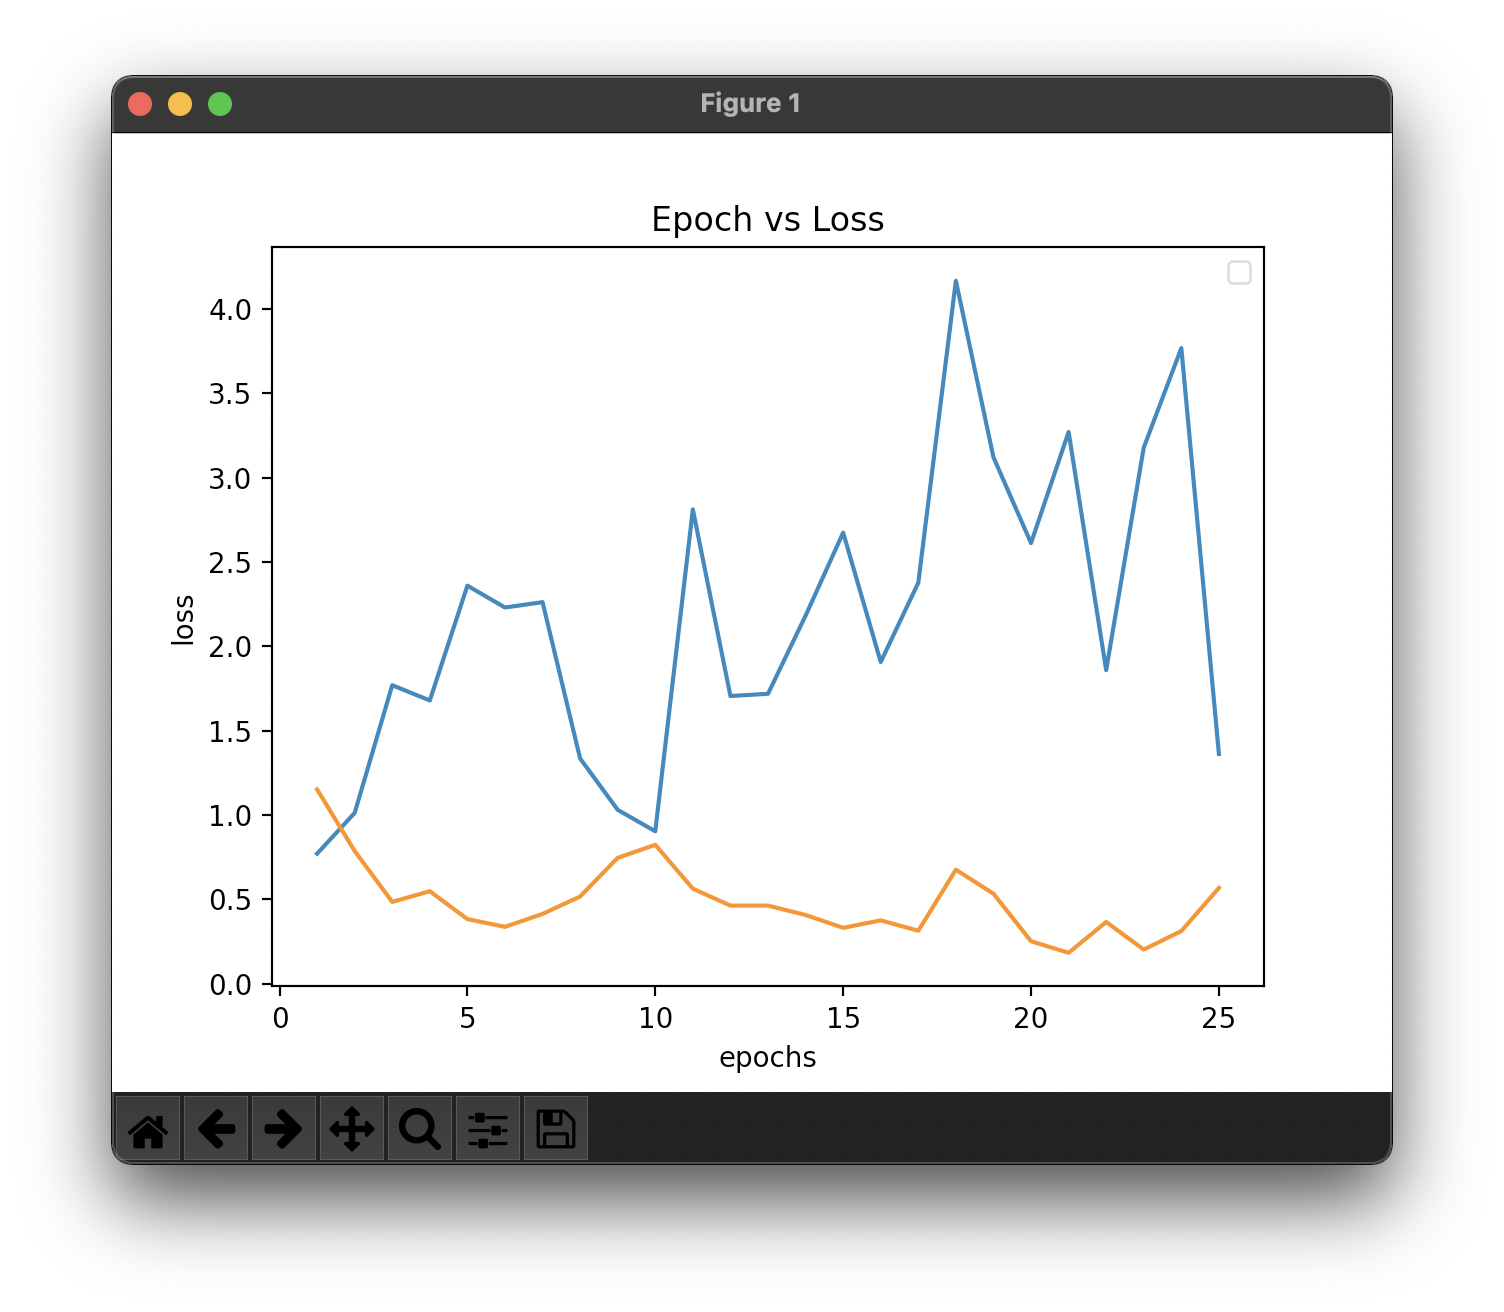
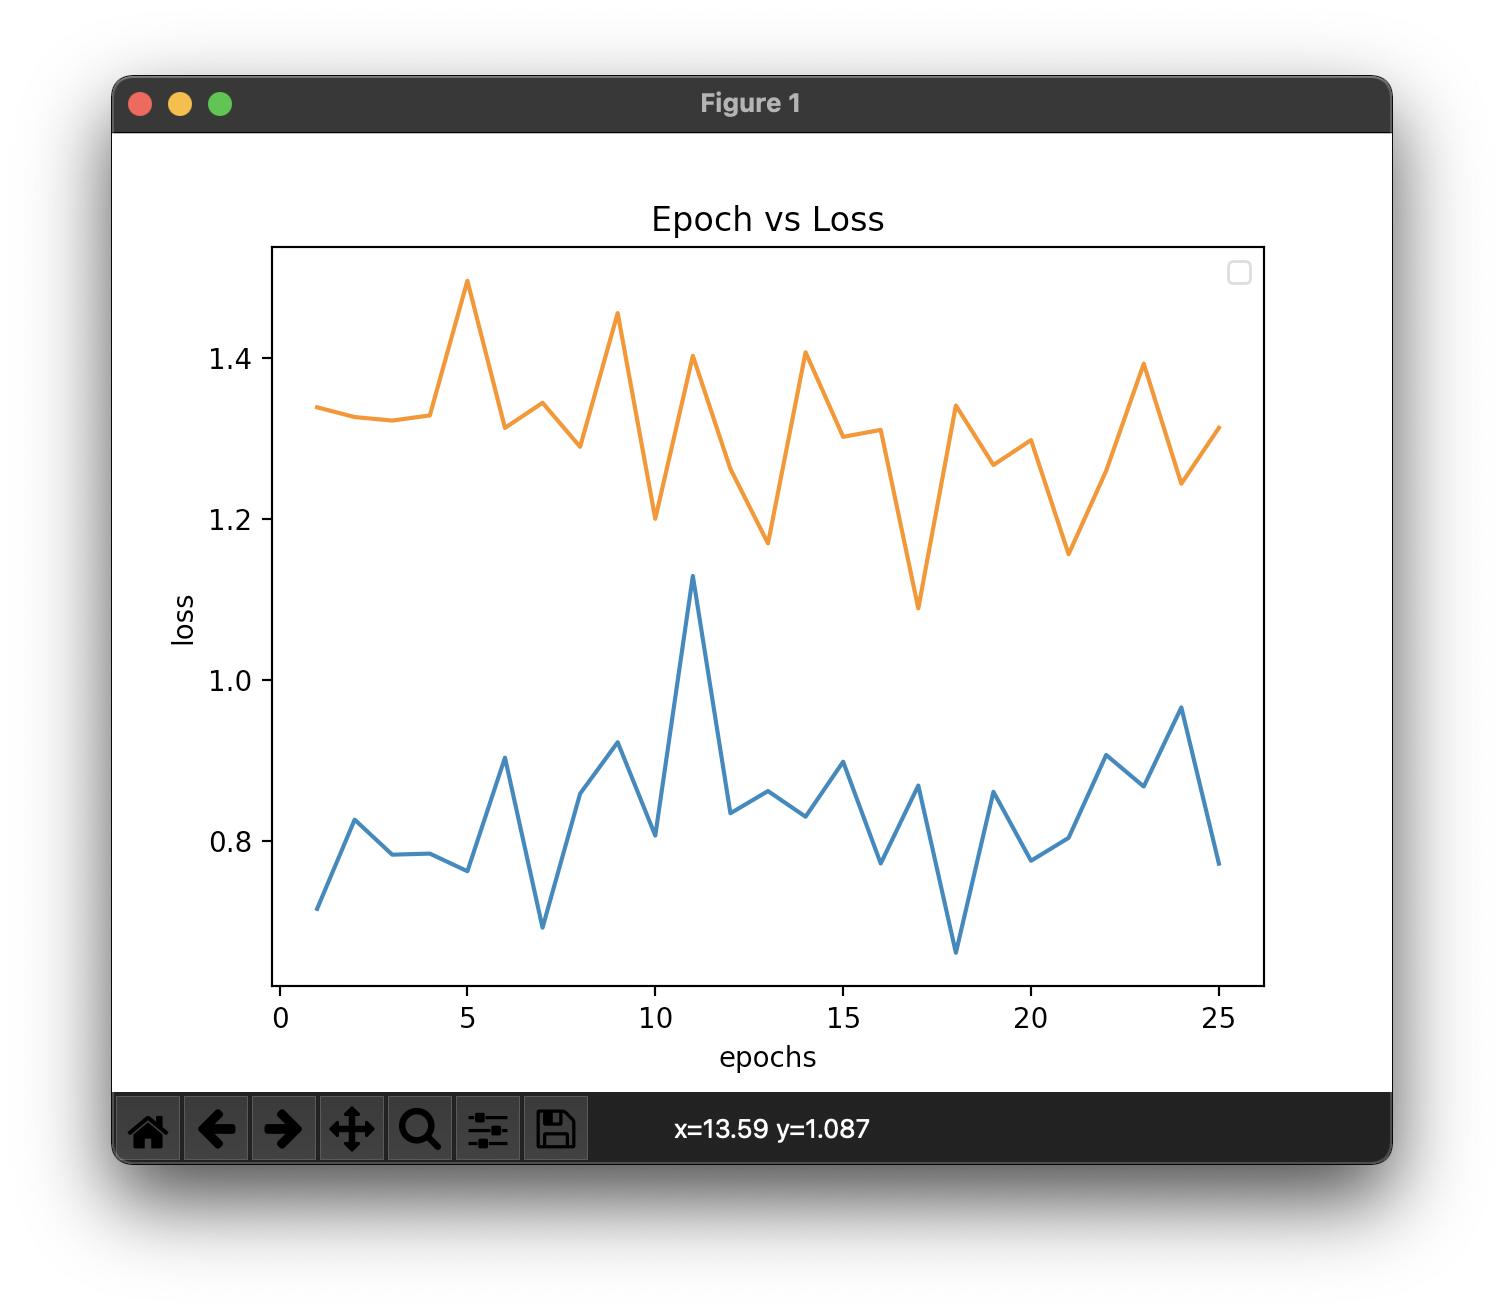
Fixed Normalization

diff --git a/numbergen/main.py b/numbergen/main.py
@@ -18,7 +18,7 @@ import time
 
 def normalize_img(image):
     fin = tf.cast(image, tf.float32)
-    return fin / 255
+    return (fin - 127.5) / 127.5
 
 
 slices = []
@@ -120,7 +120,7 @@ def train(dataset, epochs):
 
 train(train_images, 25)
 
-cnt = 25
+cnt = 50
 noise = tf.random.normal([cnt, 100])
 pred = generator.predict(noise)
 
